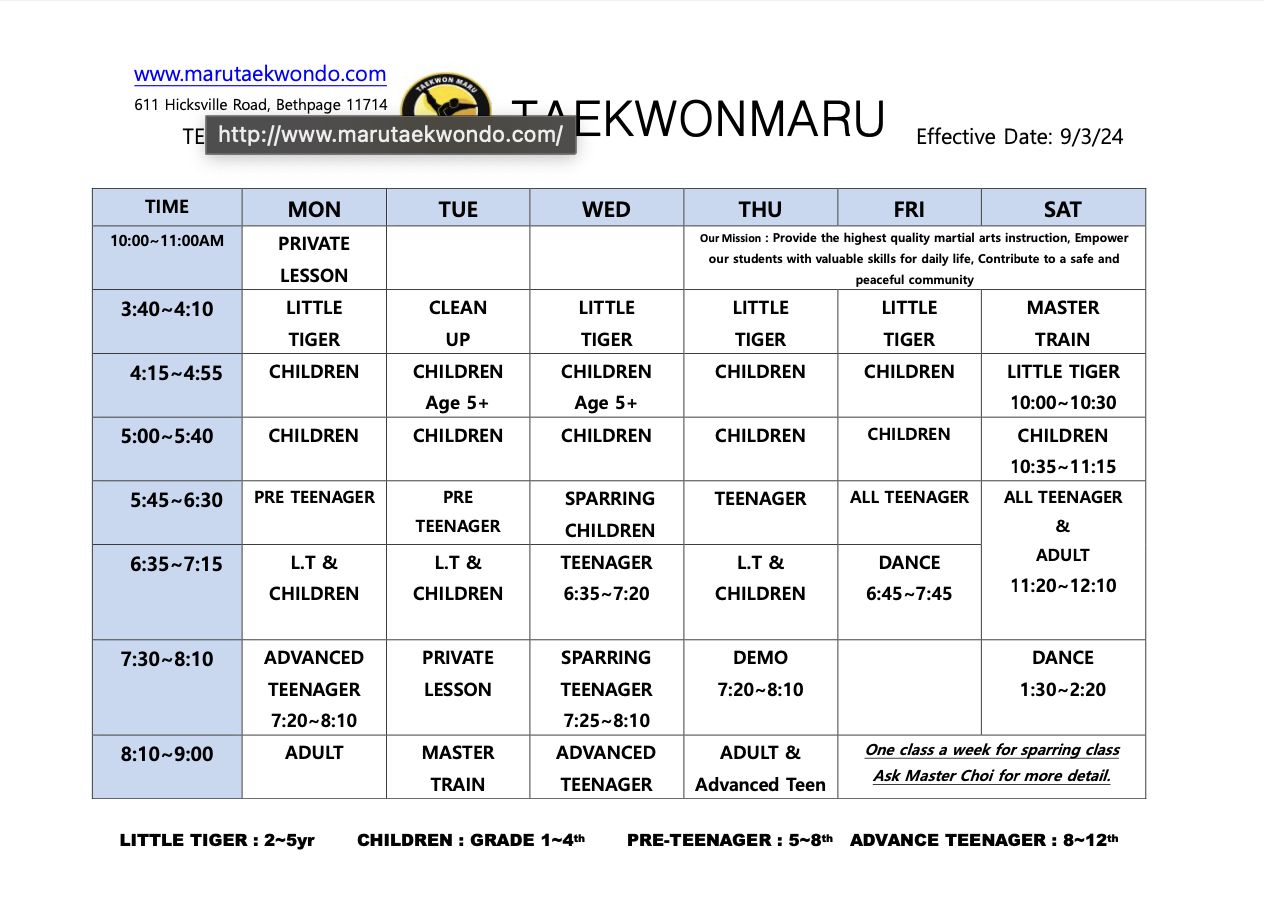
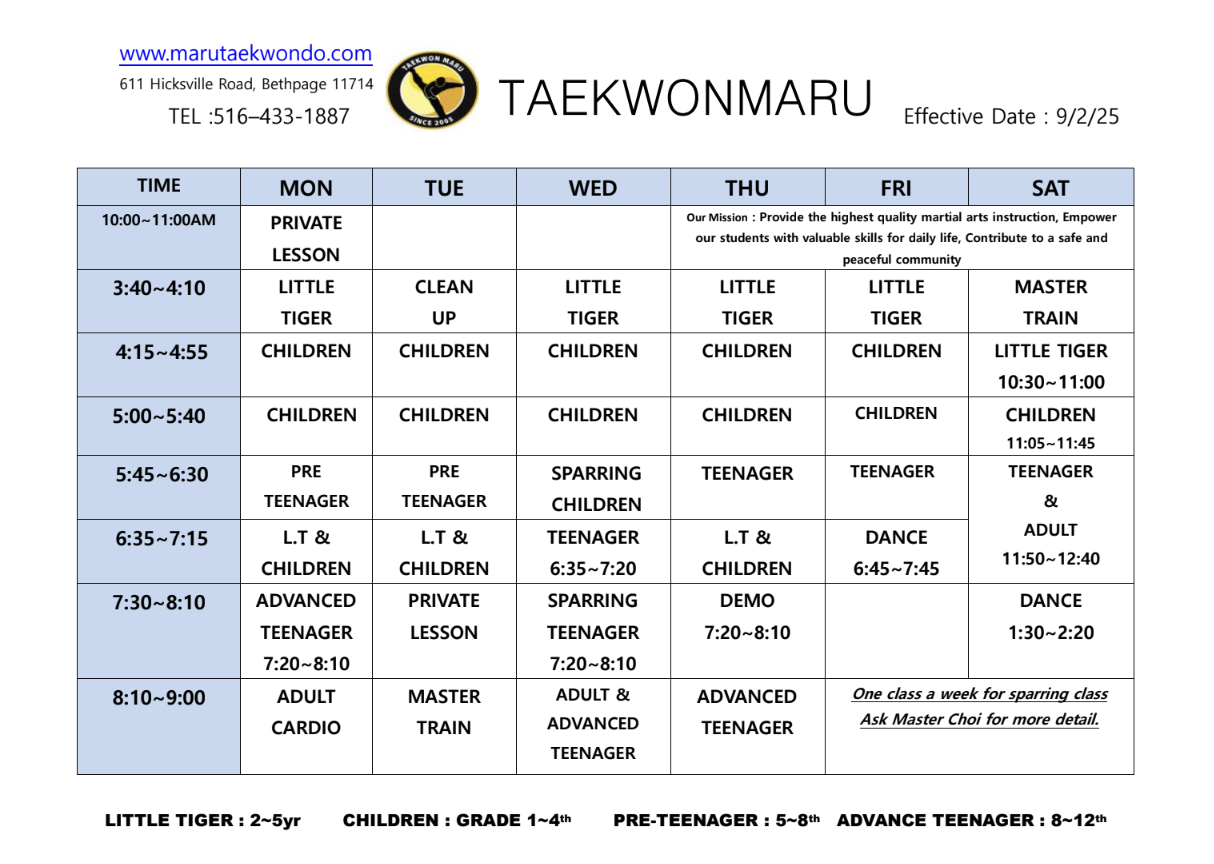
update schedule image

Changed region(s): [[0.061, 0.0312, 0.9448, 0.9688]]

diff --git a/src/utils/home-info.ts b/src/utils/home-info.ts
@@ -5,7 +5,7 @@ import kpopPriceImage from "../assets/Promo/kpopPricing.png";
 // import promoImage from "../assets/Promo/new year promo.jpg";
 import homePageImage from "../assets/home-page.png";
 import schoolIcon from "../assets/tkd-logo.png";
-import schedule from "../assets/Schedule/summer-2025.png";
+import schedule from "../assets/Schedule/fall-2025.png";
 import demoImage from "../assets/demo3.png";
 
 export const homeImage = homePageImage;
